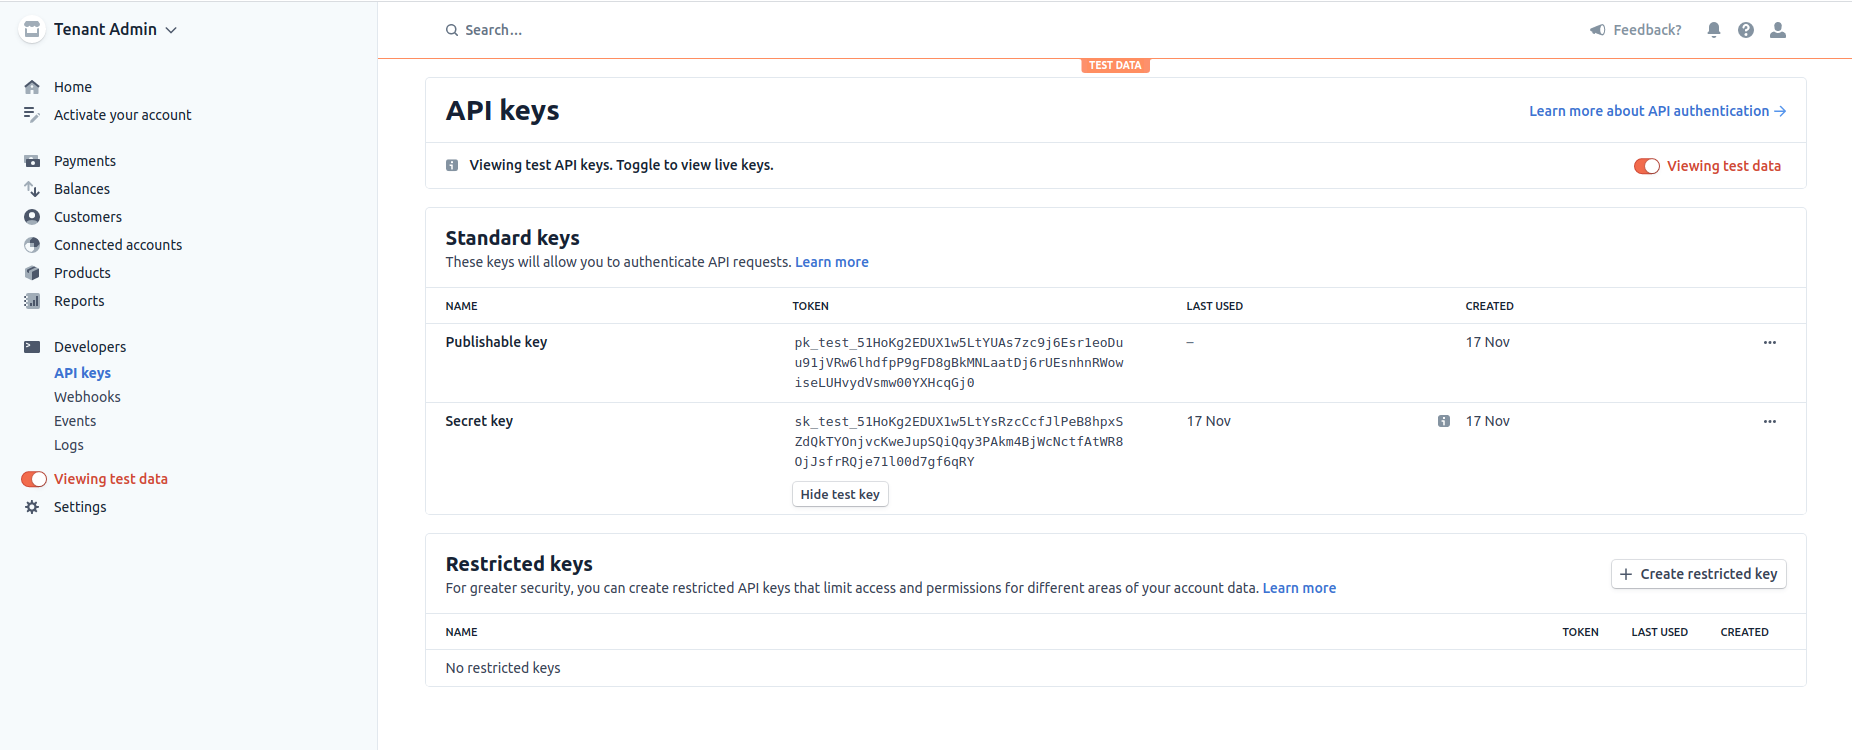
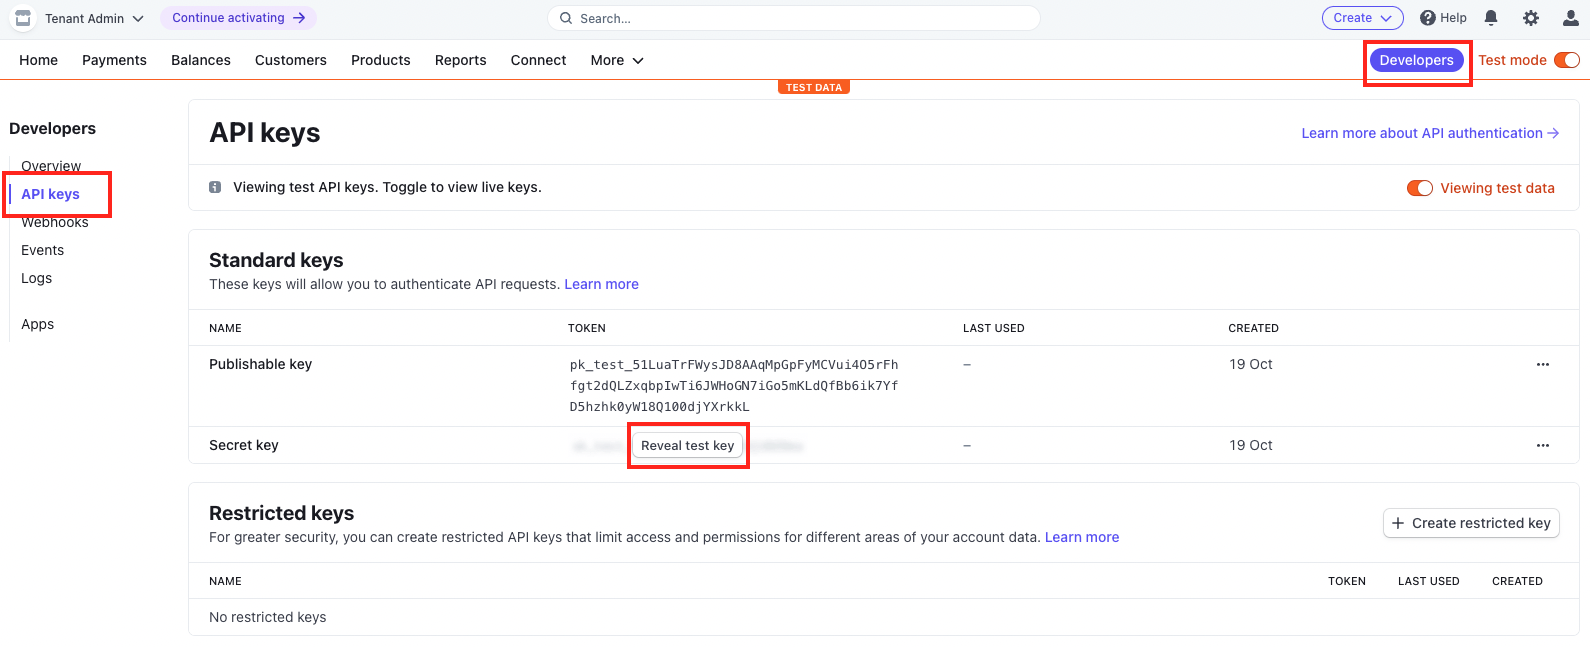
[4.1.0] Monetization Doc Changes

diff --git a/en/docs/design/api-monetization/monetizing-an-api.md b/en/docs/design/api-monetization/monetizing-an-api.md
@@ -19,6 +19,13 @@ WSO2 API Manager uses <a href="https://stripe.com">Stripe</a> as its sample impl
 
 Let's use the [wso2-am-stripe-plugin](https://github.com/wso2-extensions/wso2-am-stripe-plugin/releases/download/v1.4.0/org.wso2.apim.monetization.impl-1.4.0.jar) to monetize an API in the following example scenario.
 
+<html>
+      <div class="admonition note">
+      <p class="admonition-title">Note</p>
+      <p>This scenario can be tried out using test data by turning on the toggle button in the top right-hand side corner.</p>
+      </div> 
+</html>
+
 ### Before you begin
 
 #### (A) - Configure the billing engine
@@ -47,8 +54,7 @@ Let's use the [wso2-am-stripe-plugin](https://github.com/wso2-extensions/wso2-am
 
          Use the details of the Tenant Admin and verify the account. Let's name this account as Tenant Admin. <a name="tenantSK"></a>
 
-     2. [Obtain the keys](https://stripe.com/docs/keys#api-keys).  
-
+     2.  Click on **Developers** > **API keys** > **Reveal test key** to obtain the keys. For more information refer to [Obtain the keys](https://stripe.com/docs/keys#api-keys).
         [![Obtain keys]({{base_path}}/assets/img/learn/monetization_obtain_keys.png)]({{base_path}}/assets/img/learn/monetization_obtain_keys.png)
         
  2.  Create an account for the API Publisher.  
@@ -61,26 +67,36 @@ Let's use the [wso2-am-stripe-plugin](https://github.com/wso2-extensions/wso2-am
 
  3.  Enable Connect and create a [connected account](https://stripe.com/docs/connect/quickstart#create-account) in Stripe.  
 
-    1. Sign in to the Tenant Admin's Stripe account.
-    2. Click **Connected accounts** > **Get Started** > **Build a platform or marketplace** > **Continue** to create a platform account.
-
-        [![Create a platform account]({{base_path}}/assets/img/learn/monetization_create_connected_account.png)]({{base_path}}/assets/img/learn/monetization_create_connected_account.png)
-
-    3. In the prompted screen click **+ Create** and select the Account type as Standard and select the Country. If you haven't enabled OAuth for standard accounts, the **Continue** button will be disabled. Click **enable OAuth for Standard Accounts** in the pop-up that appears on **Continue** button.
-
-        [![Enable oauth]({{base_path}}/assets/img/learn/monetization_enable_oauth.png){: style="width:60%"}]({{base_path}}/assets/img/learn/monetization_enable_oauth.png)
-    
-    4. Enable **OAuth for Standard Accounts** under **OAuth Settings** in the prompted screen. Then, go back to the previous step and create a connected account. This will provide a one-time-use Standard onboarding link which would take the following format. The Tenant Admin can share this with the API Publisher.
-    
-         ```
-         https://connect.stripe.com/oauth/authorize?redirect_uri=https://connect.stripe.com/hosted/oauth&client_id=<client-id>& state=<state>&response_type=code&scope=read_write&stripe_user[country]=<country>
-        ```
- 
-         The API Publisher has to access the given link and provide the details of the API Publisher account. Provide **Two-step authentication** details as well. Alternatively, you can use **skip this account form** to work in the developer mode.
-
-         [![Work in developer mode]({{base_path}}/assets/img/learn/developer-mode.png)]({{base_path}}/assets/img/learn/developer-mode.png)
+      1. Sign in to the Tenant Admin's Stripe account.
      
-    5. Once you follow either of the options in the previous step, the onboarding process will be completed. After few seconds, API Publisher account will be listed under Connected accounts in Tenant Admin account. The connected account ID (Connect ID) for the API Publisher's account will appear when clicking on the connected account. Copy the **Connect ID** value as it is required when enabling monetization for an API from the APIM Publisher portal.
+         1. Click on **Settings** and then select **Settings** in **Connect** section.
+            [![Select 'Settings']({{base_path}}/assets/img/learn/monetization_connect_settings.png)]({{base_path}}/assets/img/learn/monetization_connect_settings.png)
+
+         2. Edit **Appearance** section in **Branding** section and click on **Save Branding Changes**.
+            [![Save Branding Changes]({{base_path}}/assets/img/learn/monetization_save_branding_changes.png)]({{base_path}}/assets/img/learn/monetization_save_branding_changes.png)
+         
+      2. Enable OAuth for Standard Accounts by scrolling further.
+            [![Enable Oauth for Standard Accounts]({{base_path}}/assets/img/learn/monetization_enable_oauth_for_standard_accounts.png)]({{base_path}}/assets/img/learn/monetization_enable_oauth_for_standard_accounts.png)
+      
+      3. Click `Connect` and then click on `Create`.
+         [![Click 'Connect' and Create]({{base_path}}/assets/img/learn/monetization_click_connect_and_create.png)]({{base_path}}/assets/img/learn/monetization_click_connect_and_create.png)
+
+      4. In the prompted screen select the Account type as Standard and select the Country. If you haven't enabled OAuth for standard accounts, the **Continue** button will be disabled. Click **enable OAuth for Standard Accounts** in the pop-up that appears on **Continue** button.
+      
+        [![Select Type and Country]({{base_path}}/assets/img/learn/monetization_select_type_and_country.png){: style="width:60%"}]({{base_path}}/assets/img/learn/monetization_select_type_and_country.png)
+      
+      5. Copy the URL which appears in the next popup.
+     
+         [![Copy URL]({{base_path}}/assets/img/learn/monetization_copy_url.png){: style="width:60%"}]({{base_path}}/assets/img/learn/monetization_copy_url.png)
+
+      6. Enter the URL which was copied in previous step in the browser to onboard the application and click on `Skip this form` if you are on test mode.
+     
+         [![Onboard Application]({{base_path}}/assets/img/learn/monetization_onboard_application.png){: style="width:60%"}]({{base_path}}/assets/img/learn/monetization_onboard_application.png)
+
+      7. Refresh [the page](https://dashboard.stripe.com/test/connect/accounts/overview) to see the newly created account.
+
+         [![View Created Account]({{base_path}}/assets/img/learn/monetization_created_account.png){: style="width:60%"}]({{base_path}}/assets/img/learn/monetization_created_account.png)
+
 
 #### (B) - Configure WSO2 API Manager
 
@@ -513,7 +529,7 @@ Let's use the [wso2-am-stripe-plugin](https://github.com/wso2-extensions/wso2-am
 
      These configurations are required only if you intend to create dynamic plans (usage-based plans) where consumers are charged based on the usage of the API. In such situations, you need analytics to record and retrieve the usage of the monetized APIs. 
     
-    1. Enable analytics.
+    1. Enable analytics. Refer [this guide](https://apim.docs.wso2.com/en/latest/api-analytics/getting-started-guide/#step-2-register-your-environment) for more info.
     
         ``` java tab="Format"
          [apim.analytics]
@@ -549,7 +565,13 @@ Let's use the [wso2-am-stripe-plugin](https://github.com/wso2-extensions/wso2-am
          choreo_insight_app_consumer_key = "xxxxxxxxxxxxxxxxxxxxxxxxxxxx"
          choreo_insight_app_consumer_secret = "xxxxxxxxxxxxxxxxxxxxxxxxxxxx"
          ```
-   
+
+       4. Optionally, configure WSO2 API Manager to work with Choreo Analytics.
+           1. Enable analytics by referring to this [guide](https://apim.docs.wso2.com/en/latest/api-analytics/getting-started-guide/#step-2-register-your-environment).
+          
+        !!! note
+            analytics_access_token was generated in the **step a**.
+
 5.  Configure the Tenant Admin on WSO2 API Manager.
 
     1.  Start the WSO2 API Manager server.
@@ -621,15 +643,8 @@ Let's use the [wso2-am-stripe-plugin](https://github.com/wso2-extensions/wso2-am
       <p>When using Stripe as a billing engine it only allows you to create monetization plans for commercial business plans. Therefore, make sure to create a subscription policy that has a paid business plan.</p>
       </div> 
      </html>
-
-
-     <html>
-     <head>
-     </head>
-     <body>
-     <img src="{{base_path}}/assets/img/learn/subscription-commercial-tier.png" alt="Subscription to a paid business plan" title="Paid business plan" width="400" />
-     </body>
-     </html>
+    
+    [![Create Subscription Policy]({{base_path}}/assets/img/learn/monetization_create_subscription_policy.png){: style="width:60%"}]({{base_path}}/assets/img/learn/monetization_create_subscription_policy.png)
 
      After you save the policy, a plan gets created in the Stripe account of the Tenant Admin.  
 
@@ -639,20 +654,28 @@ Let's use the [wso2-am-stripe-plugin](https://github.com/wso2-extensions/wso2-am
 
 ### Step 2 - Enable monetization
 
-1.  Sign in to the API Publisher Portal.  
+1. Sign in to the API Publisher Portal.  
     `https://<hostname>:9443/publisher`
 
-2.  Click on the API that you wish to monetize.  
-    ![Enable monetization]({{base_path}}/assets/img/learn/enable-monetization.png)
+2. Click on the API that you wish to monetize.  
 
-3.  Click **Monetization** to navigate to the Monetization configurations.
+3. Click on `Subscriptions` and select the policy created in **step 1** and click save.
+   [![Select Subscription]({{base_path}}/assets/img/learn/monetization_select_subscription_policy.png){: style="width:60%"}]({{base_path}}/assets/img/learn/monetization_create_subscription_policy.png)
 
-4.  Enter the connect ID as the connected account key and click
-    **Save**.  
+4. Click **Monetization** to navigate to the Monetization configurations.
+   ![Enable monetization]({{base_path}}/assets/img/learn/enable-monetization.png)
+
+5. Enter the connect ID as the connected account key and click
+    **Save**. You could find the `Connect ID` when you click on the created account. Simply click on **Copy ID** there to copy it.
+   [![Copy Connect ID]({{base_path}}/assets/img/learn/monetization_copy_id.png){: style="width:60%"}]({{base_path}}/assets/img/learn/monetization_copy_id.png)
 
     When using Stripe as the billing engine, you need to enter the [connect ID](#connectID), which is the ID that indicates the link between the Tenant Admin and the API Publisher Stripe accounts.
         
     The plans get created in Stripe based on the business plan attached to the API.
+6. Additionally, if you refresh the page **Policy** section has to be shown as below.
+
+      [![Updated Policy Section]({{base_path}}/assets/img/learn/monetization_updated_policy_section.png){: style="width:60%"}]({{base_path}}/assets/img/learn/monetization_updated_policy_section.png)
+
 
 ### Step 3 - Subscribe to a monetized API
 
@@ -718,7 +741,7 @@ You can use the admin REST API, which is available in WSO2 API Manager, to publi
 3.  Publish usage data to the Stripe billing engine.
 
     ``` java
-    curl -k -H "Authorization: Bearer <monetization-usage-publish-token>" -X POST -H "Content-Type: application/json" https://localhost:9443/api/am/admin/v1/monetization/publish-usage
+    curl -k -H "Authorization: Bearer <monetization-usage-publish-token>" -X POST -H "Content-Type: application/json" https://localhost:9443/api/am/admin/v3/monetization/publish-usage
     ```
 
     -   `<monetization-usage-publish-token>` - Token obtained using client credentials with `monetization_usage_publish` scope in the previous step.
@@ -738,7 +761,7 @@ You can use the admin REST API, which is available in WSO2 API Manager, to publi
     When you call the Admin API to publish usage data, a separate job in a separate thread is created to publish usage data to the billing engine. The status of the above job can be monitored as follows.
   
     ``` java
-    curl -k -H "Authorization: Bearer <monetization-usage-publish-token>" -X GET -H "Content-Type: application/json" https://localhost:9443/api/am/admin/v1/monetization/publish-usage/status
+    curl -k -H "Authorization: Bearer <monetization-usage-publish-token>" -X GET -H "Content-Type: application/json" https://localhost:9443/api/am/admin/v3/monetization/publish-usage/status
     ```
     -   `<monetization-usage-publish-token>` - The same token that you got with the monetization usage scope in previous steps.
 
